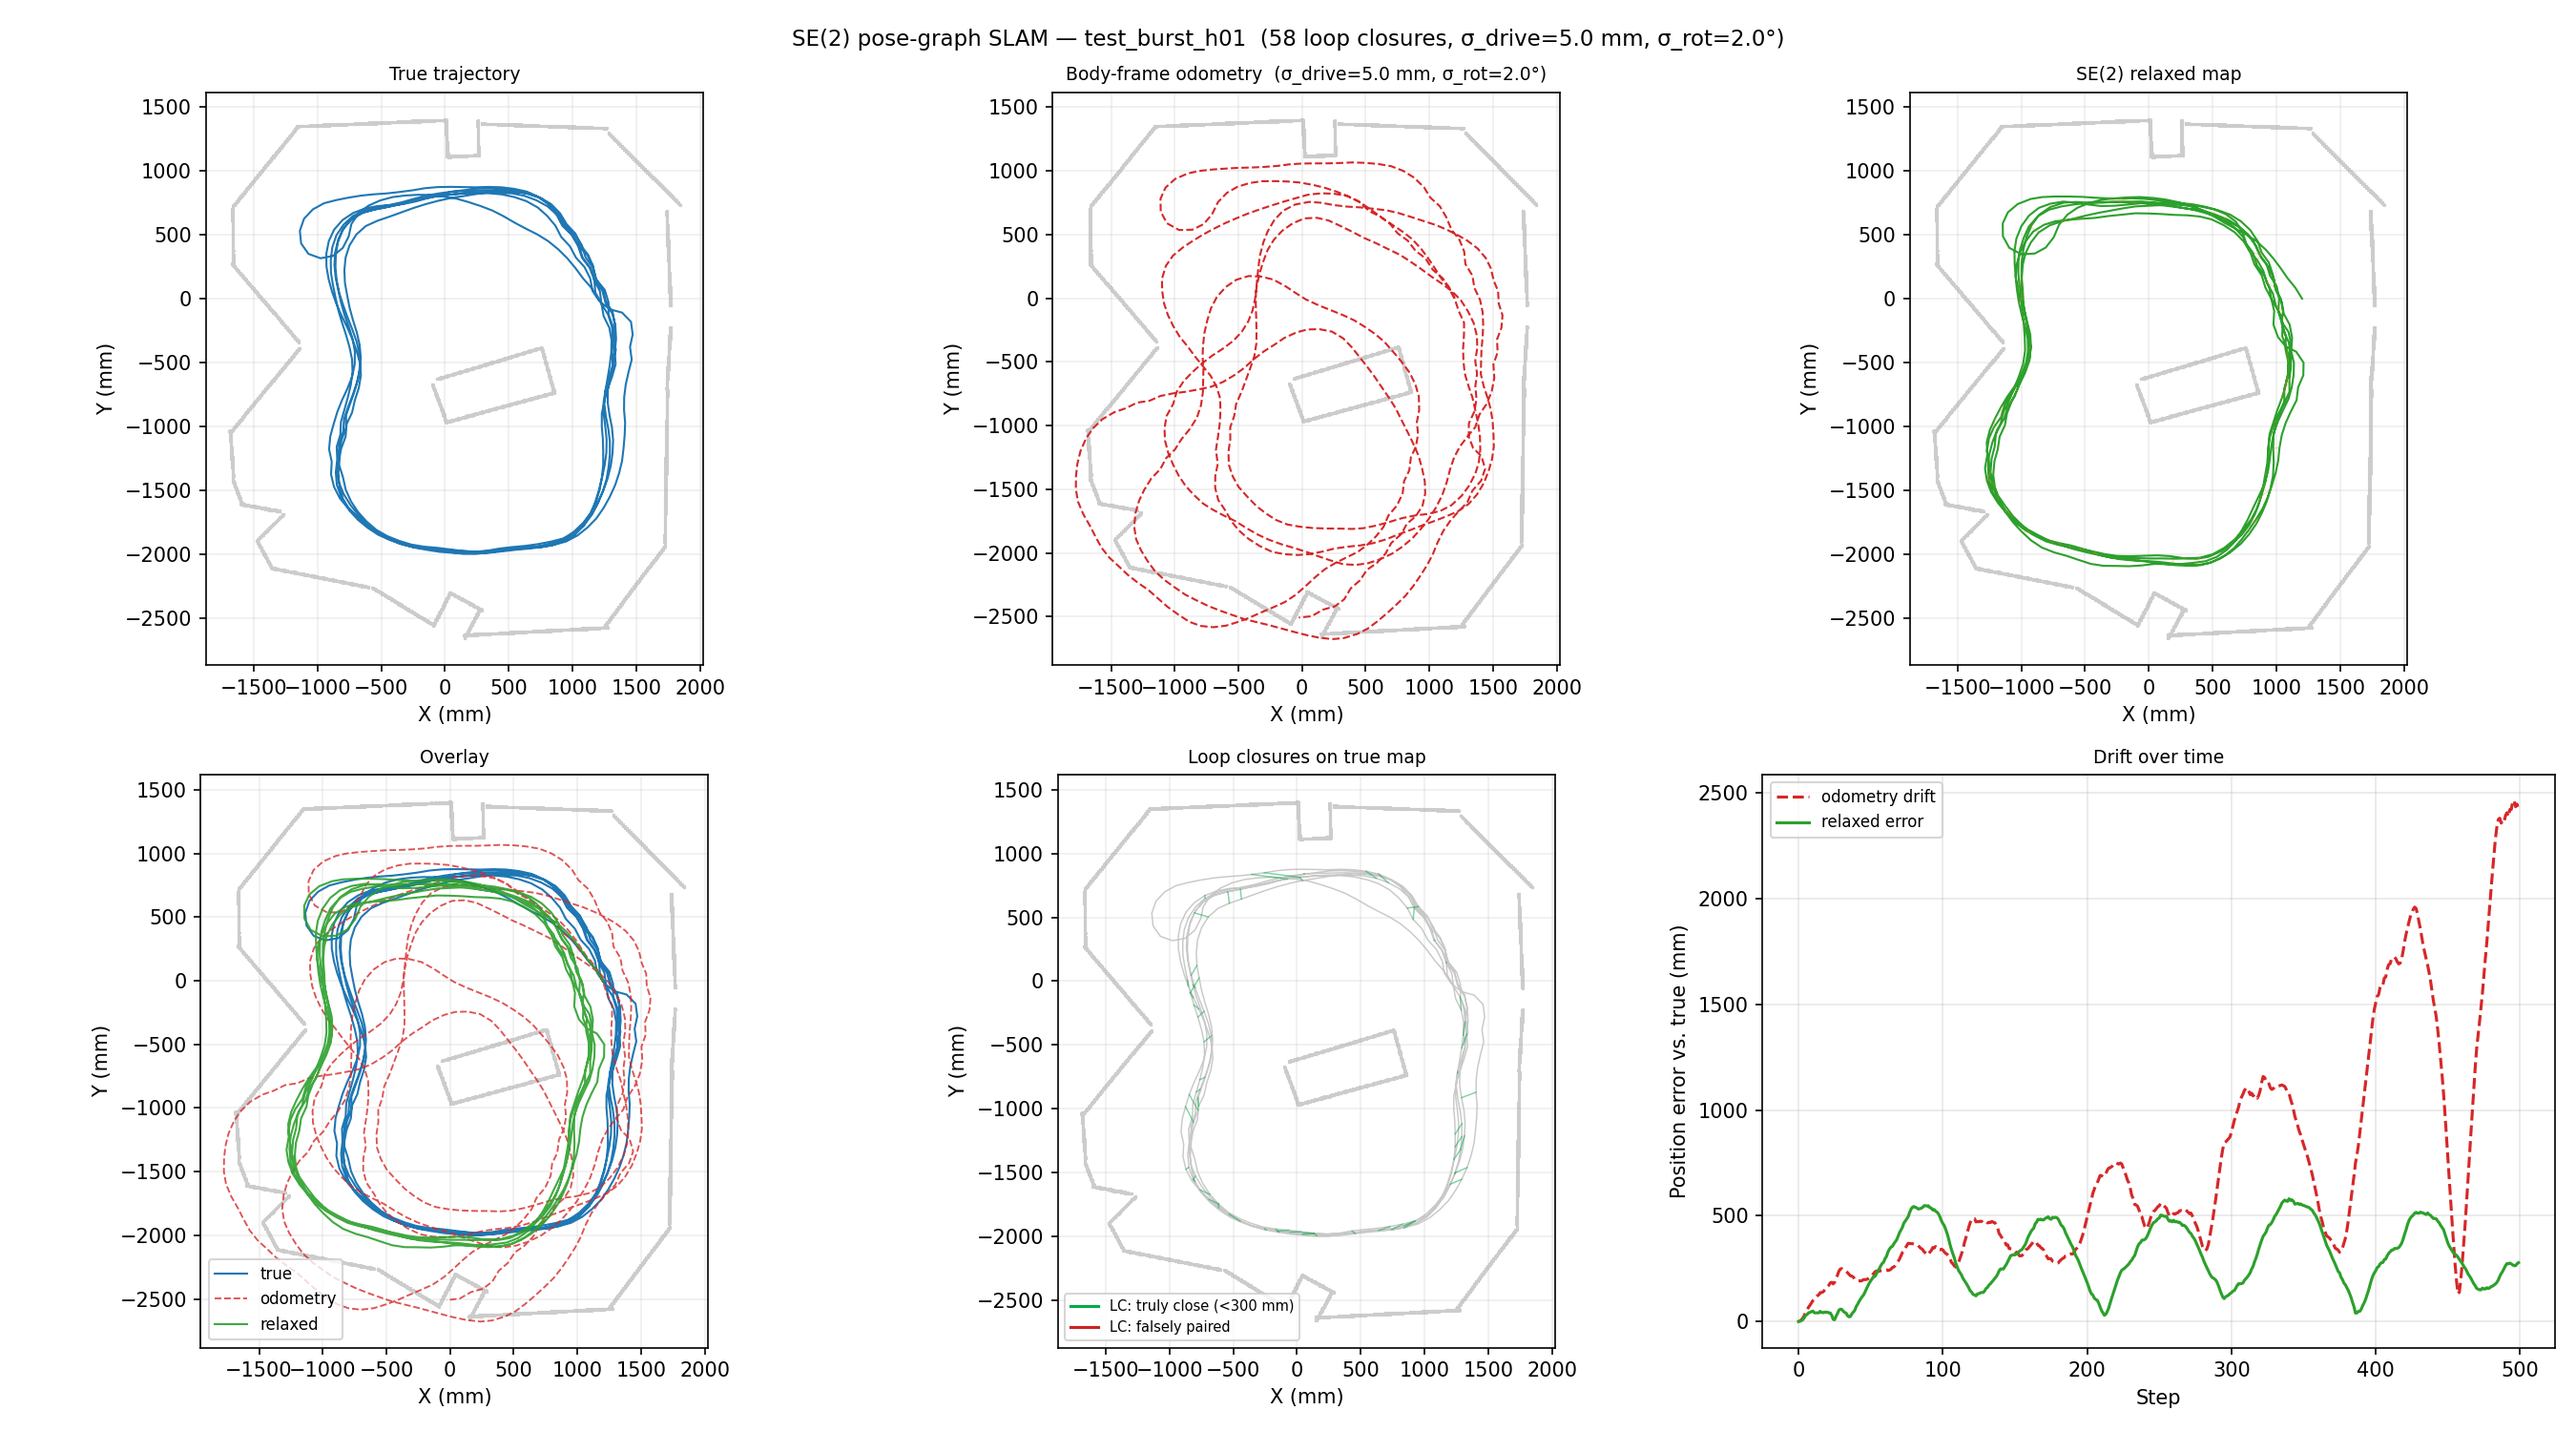
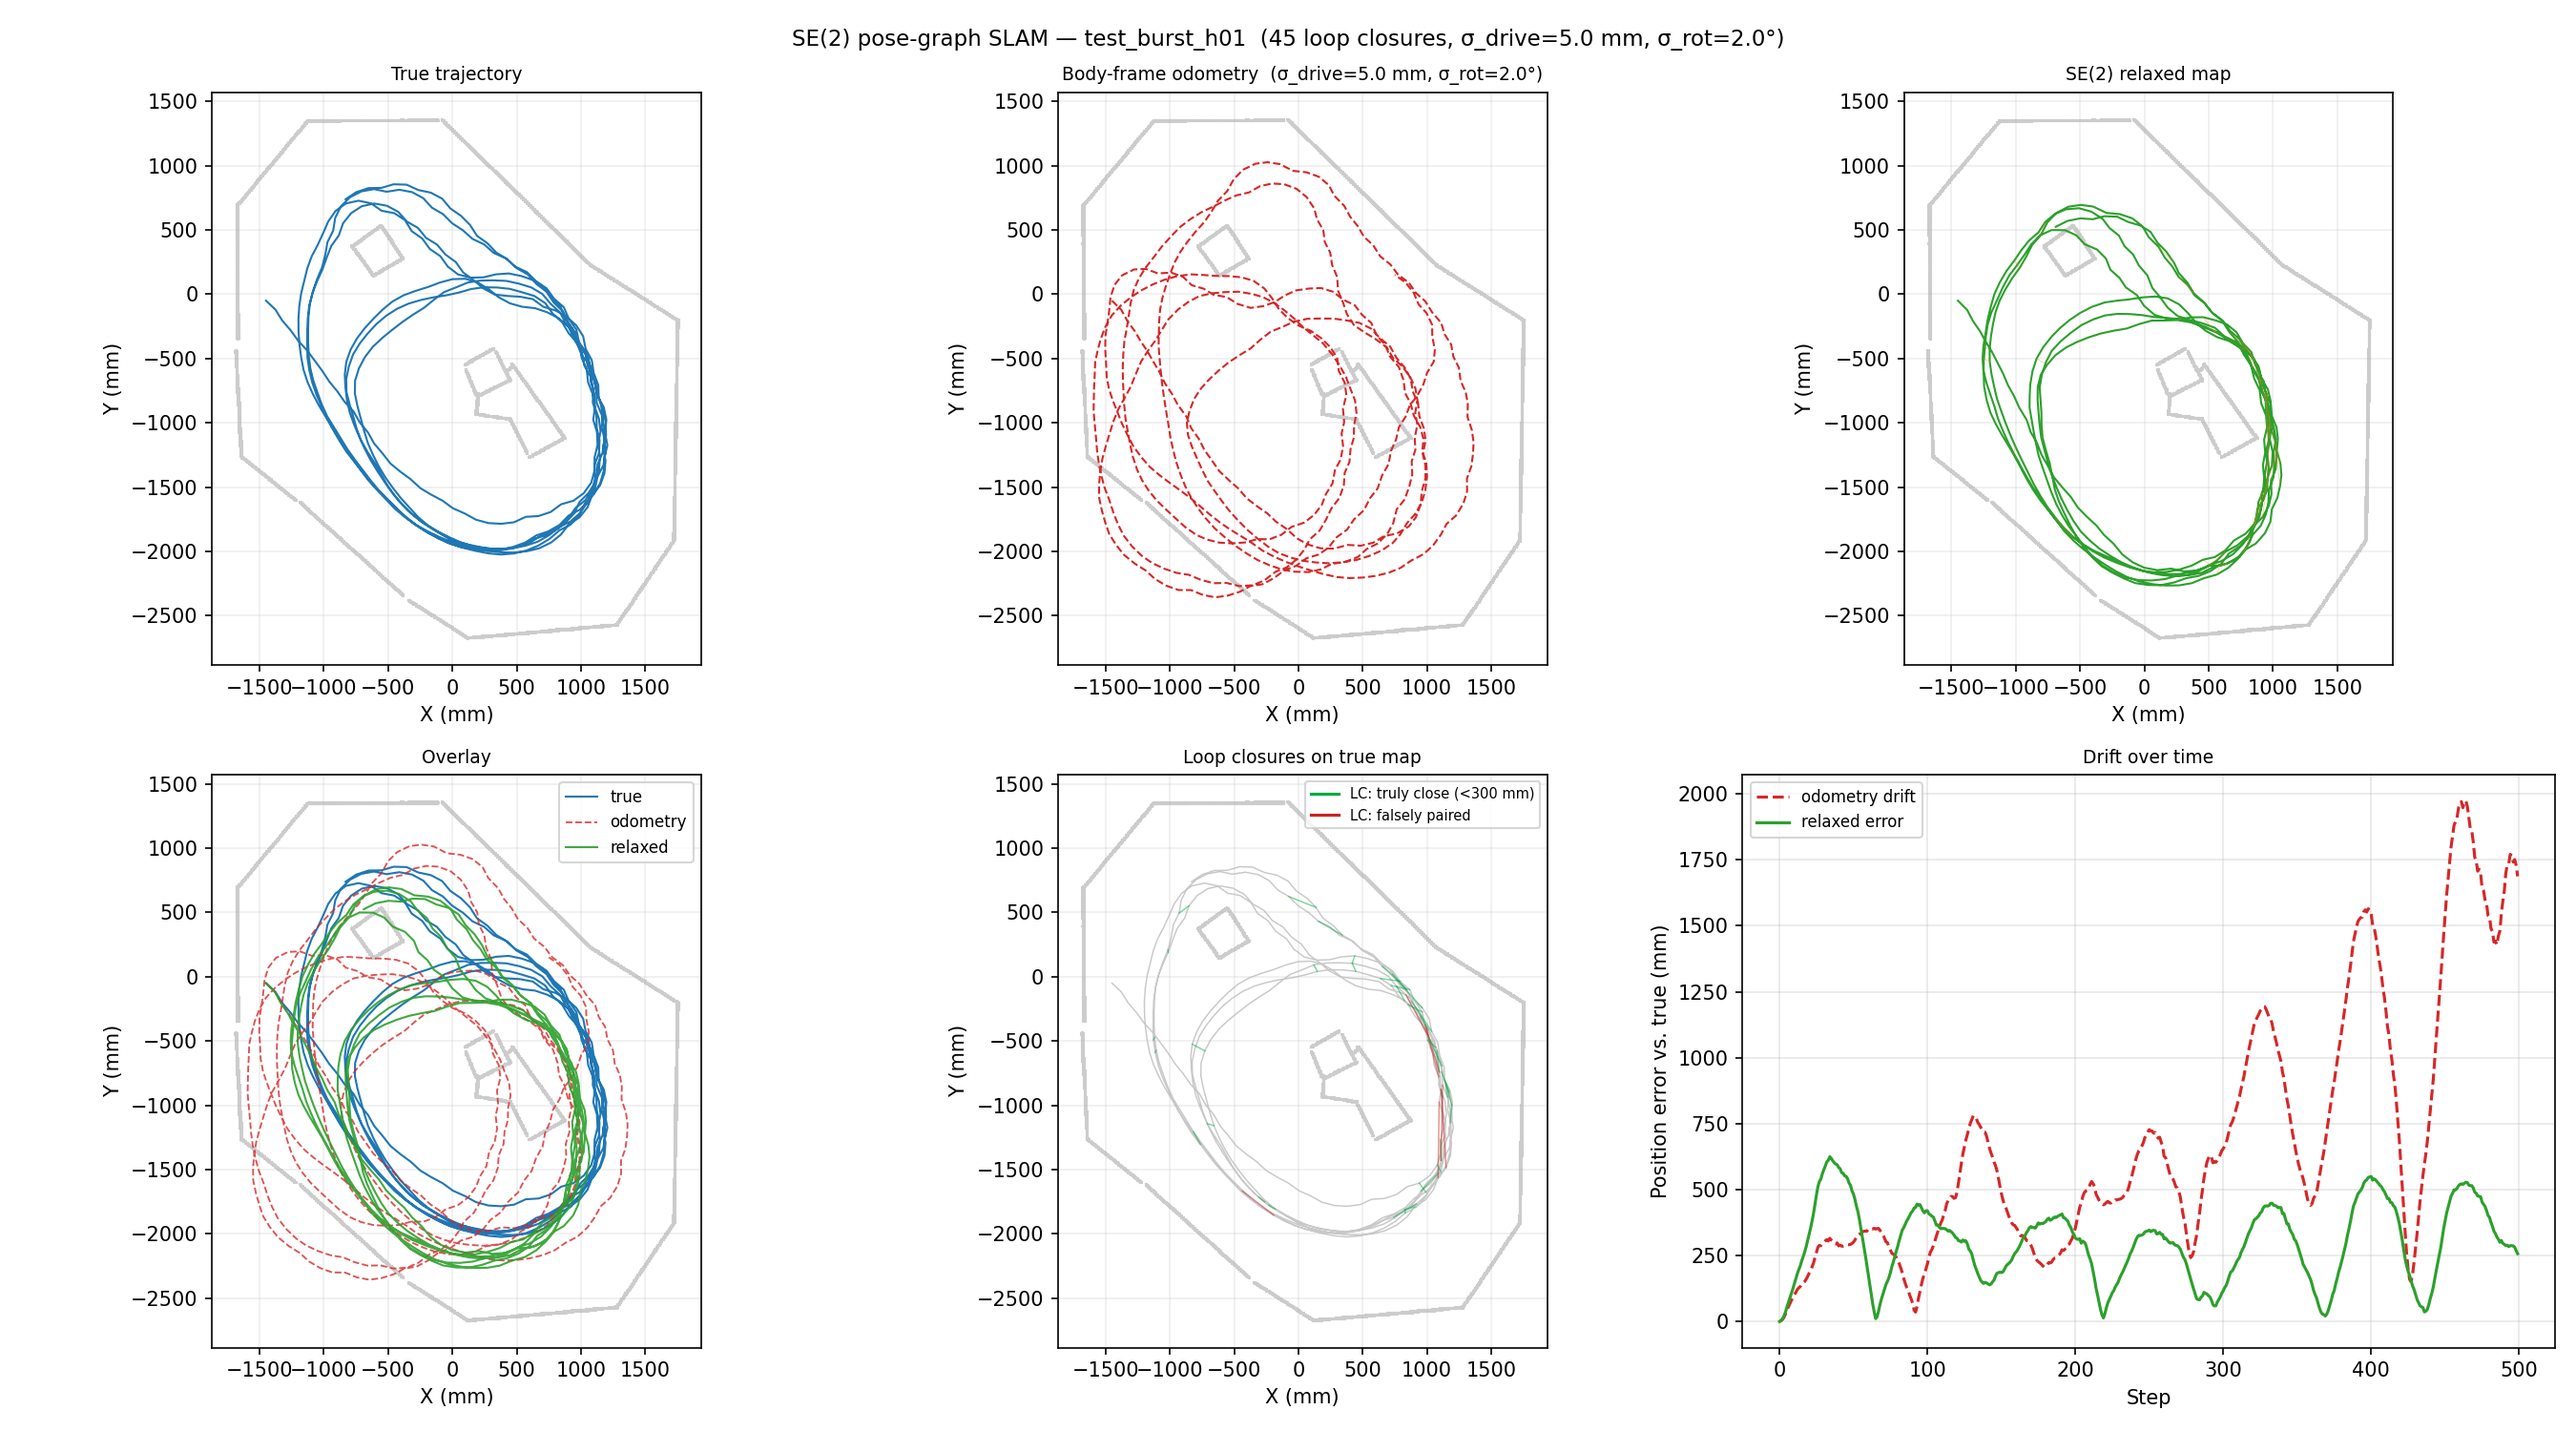
Add heading loop-closure residuals and relaxed solver caps
Each LC now contributes three residuals — Δx, Δy, and Δθ — under the
assumption that same-place revisits in a stable orbit also share
heading. Huber IRLS gates the triple by the 2D position magnitude, so
a position-outlier LC no longer retains rotational pull. Step caps
raised to 200 mm / 0.3 rad and iters bumped to 60 to support harder
cases. On B02 at σ_drive=5/σ_rot=2: mean relaxed error 297 mm, final
257 mm — a modest improvement over position-only LCs.

diff --git a/Control_code/SCRIPT_PoseGraphSLAM_SE2.py b/Control_code/SCRIPT_PoseGraphSLAM_SE2.py
@@ -54,20 +54,21 @@ DRIVE_MM_PER_STEP   = 50.0       # used by the drift-gate bound
 W_ODOM_POS          = 1.0 / SIGMA_DRIVE_MM                # per-coord
 W_ODOM_ROT          = 1.0 / np.radians(SIGMA_ROT_DEG)     # rad⁻¹
 W_LC_POS            = 1.0 / 50.0                          # σ_LC ≈ 50 mm
+W_LC_ROT            = 1.0 / np.radians(15.0)              # σ_LC_θ ≈ 15° (same-direction revisits)
 W_SMOOTH_POS        = 0.02
 W_SMOOTH_ROT        = 0.05
 ANCHOR_WEIGHT       = 1e3
 
 # Gauss-Newton with step damping
-GN_MAX_ITERS        = 40
+GN_MAX_ITERS        = 60
 GN_TOL              = 1e-3
-GN_MAX_STEP_XY_MM   = 100.0     # cap per-node position update per iteration
-GN_MAX_STEP_ROT_RAD = 0.2       # cap per-node rotation update per iteration
+GN_MAX_STEP_XY_MM   = 200.0     # cap per-node position update per iteration
+GN_MAX_STEP_ROT_RAD = 0.3       # cap per-node rotation update per iteration
 
 # Huber robust loss on loop-closure residuals (outlier rejection via IRLS).
 # δ is in σ-units of the LC residual (weighted magnitude). Residuals with
 # weighted 2D magnitude > δ get progressively demoted in subsequent GN iters.
-HUBER_DELTA_LC      = 3.0
+HUBER_DELTA_LC      = 5.0
 
 
 # ══════════════════════════════════════════════════════════════════════════════
@@ -182,7 +183,7 @@ def build_residuals_and_jacobian(x, y, θ, dθ_m, dr_m, loop_closures, anchor):
     M = N - 1
     L = len(loop_closures)
     S = max(0, N - 2)
-    n_rows = 3 + 3 * M + 2 * L + 3 * S
+    n_rows = 3 + 3 * M + 3 * L + 3 * S   # LC: 2 pos + 1 heading per closure
     n_vars = 3 * N
 
     r = np.zeros(n_rows)
@@ -225,15 +226,18 @@ def build_residuals_and_jacobian(x, y, θ, dθ_m, dr_m, loop_closures, anchor):
 
         row += 3
 
-    # ── Loop closures (position only) ─────────────────────────────────────────
+    # ── Loop closures (position + heading; assume same-direction revisits) ────
     for s_idx, t_idx in loop_closures:
         r[row + 0] = W_LC_POS * (x[t_idx] - x[s_idx])
         r[row + 1] = W_LC_POS * (y[t_idx] - y[s_idx])
+        r[row + 2] = W_LC_ROT * wrap_rad(θ[t_idx] - θ[s_idx])
         add(row + 0, 3 * s_idx + 0, -W_LC_POS)
         add(row + 0, 3 * t_idx + 0, +W_LC_POS)
         add(row + 1, 3 * s_idx + 1, -W_LC_POS)
         add(row + 1, 3 * t_idx + 1, +W_LC_POS)
-        row += 2
+        add(row + 2, 3 * s_idx + 2, -W_LC_ROT)
+        add(row + 2, 3 * t_idx + 2, +W_LC_ROT)
+        row += 3
 
     # ── Smoothness on (x, y, θ) ───────────────────────────────────────────────
     for i in range(1, N - 1):
@@ -250,30 +254,29 @@ def build_residuals_and_jacobian(x, y, θ, dθ_m, dr_m, loop_closures, anchor):
 
     J = scipy.sparse.coo_matrix((dj, (rj, cj)), shape=(n_rows, n_vars)).tocsr()
     lc_row_start = 3 + 3 * M                 # first LC residual row
-    lc_row_end   = lc_row_start + 2 * L      # first post-LC row
+    lc_row_end   = lc_row_start + 3 * L      # first post-LC row  (3 rows per LC)
     return r, J, lc_row_start, lc_row_end
 
 
 def _apply_huber_reweighting(r, J, lc_row_start, lc_row_end, δ):
     """
-    IRLS reweighting: for each LC (two consecutive rows), if the 2D residual
-    magnitude exceeds δ, scale both its rows (in r and J) by √w where
-    w = δ / |r_lc|. Returns the number of LCs demoted and their mean weight.
+    IRLS reweighting: for each LC (3 consecutive rows = Δx, Δy, Δθ), if the
+    2D *position* residual magnitude exceeds δ, scale all three rows by √w
+    where w = δ / |r_lc_pos|. Heading is demoted alongside position so a
+    position-outlier LC doesn't retain rotational pull.
     """
     n_demoted, weight_sum = 0, 0.0
-    # Work on r as a mutable copy; J is re-scaled row-wise.
     r = r.copy()
     J = J.tolil(copy=True)
-    for k in range(lc_row_start, lc_row_end, 2):
+    for k in range(lc_row_start, lc_row_end, 3):
         mag = float(np.hypot(r[k], r[k + 1]))
         if mag <= δ:
             continue
         w = δ / max(mag, 1e-12)
         sqw = np.sqrt(w)
-        r[k]     *= sqw
-        r[k + 1] *= sqw
-        J[k]     *= sqw
-        J[k + 1] *= sqw
+        for off in (0, 1, 2):
+            r[k + off] *= sqw
+            J[k + off] *= sqw
         n_demoted += 1
         weight_sum += w
     avg_w = (weight_sum / n_demoted) if n_demoted else 1.0
